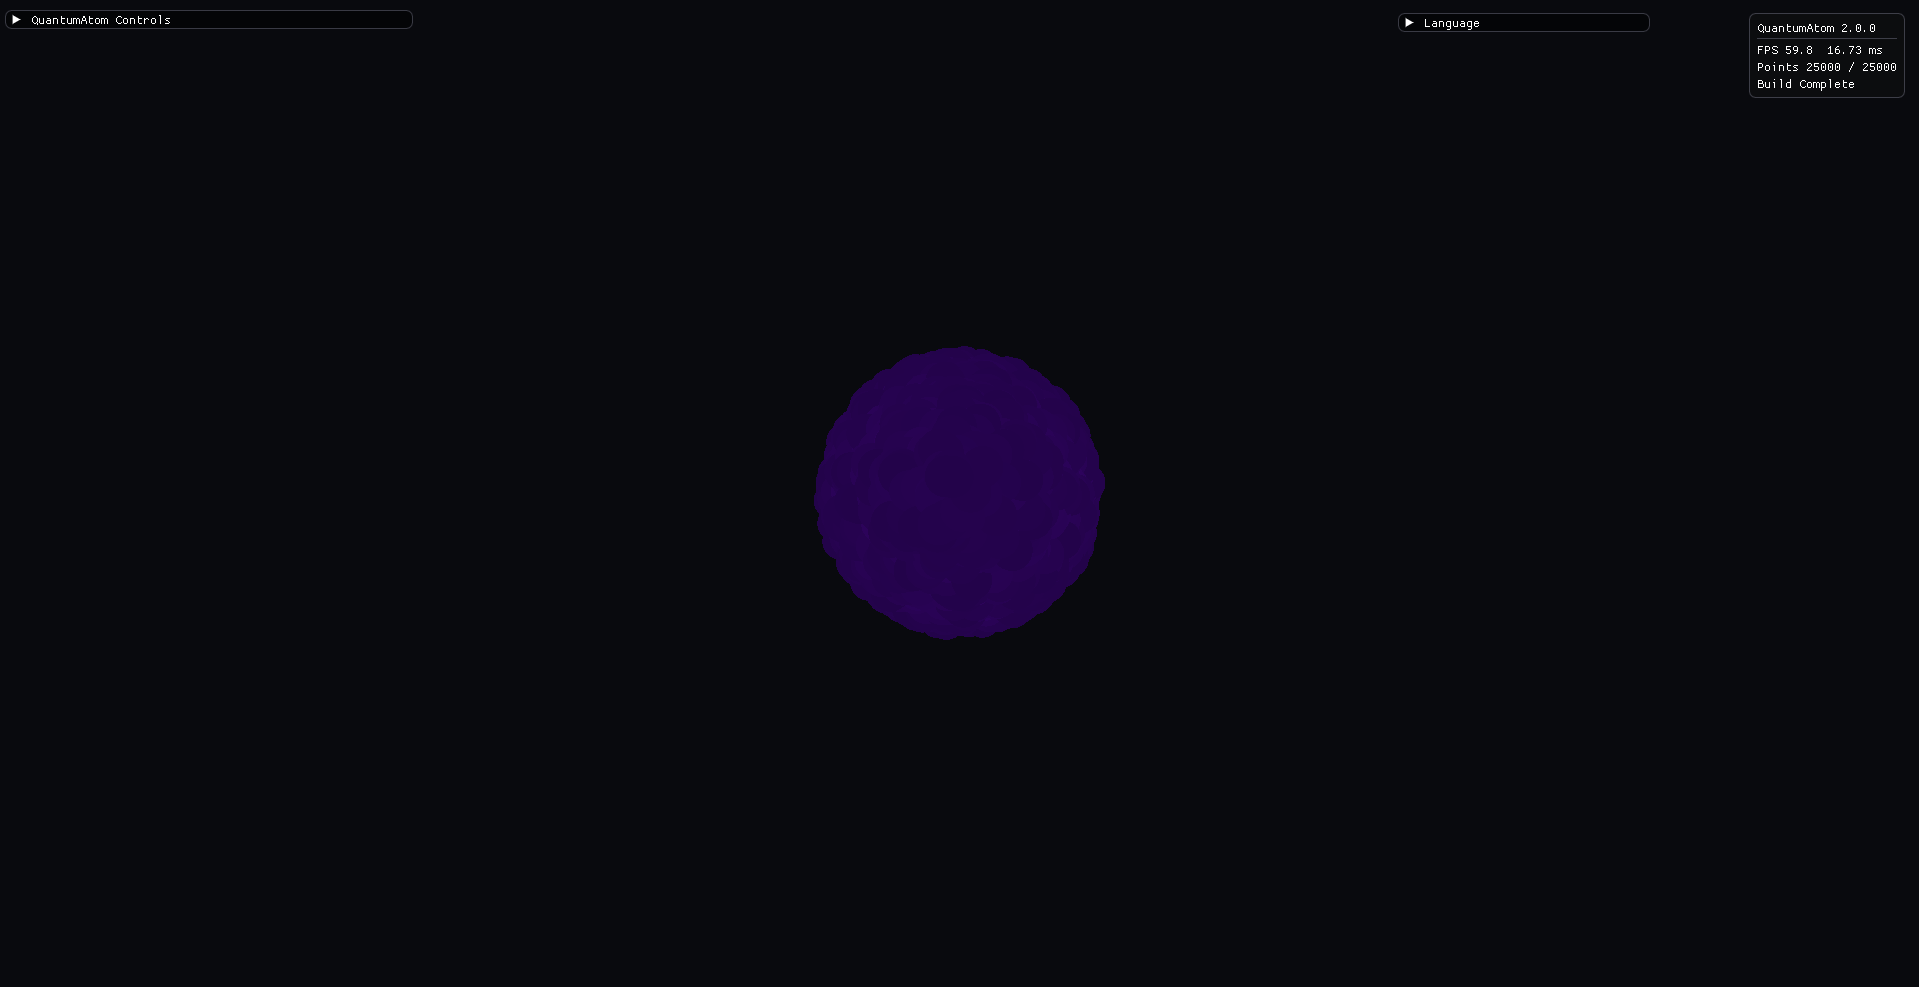
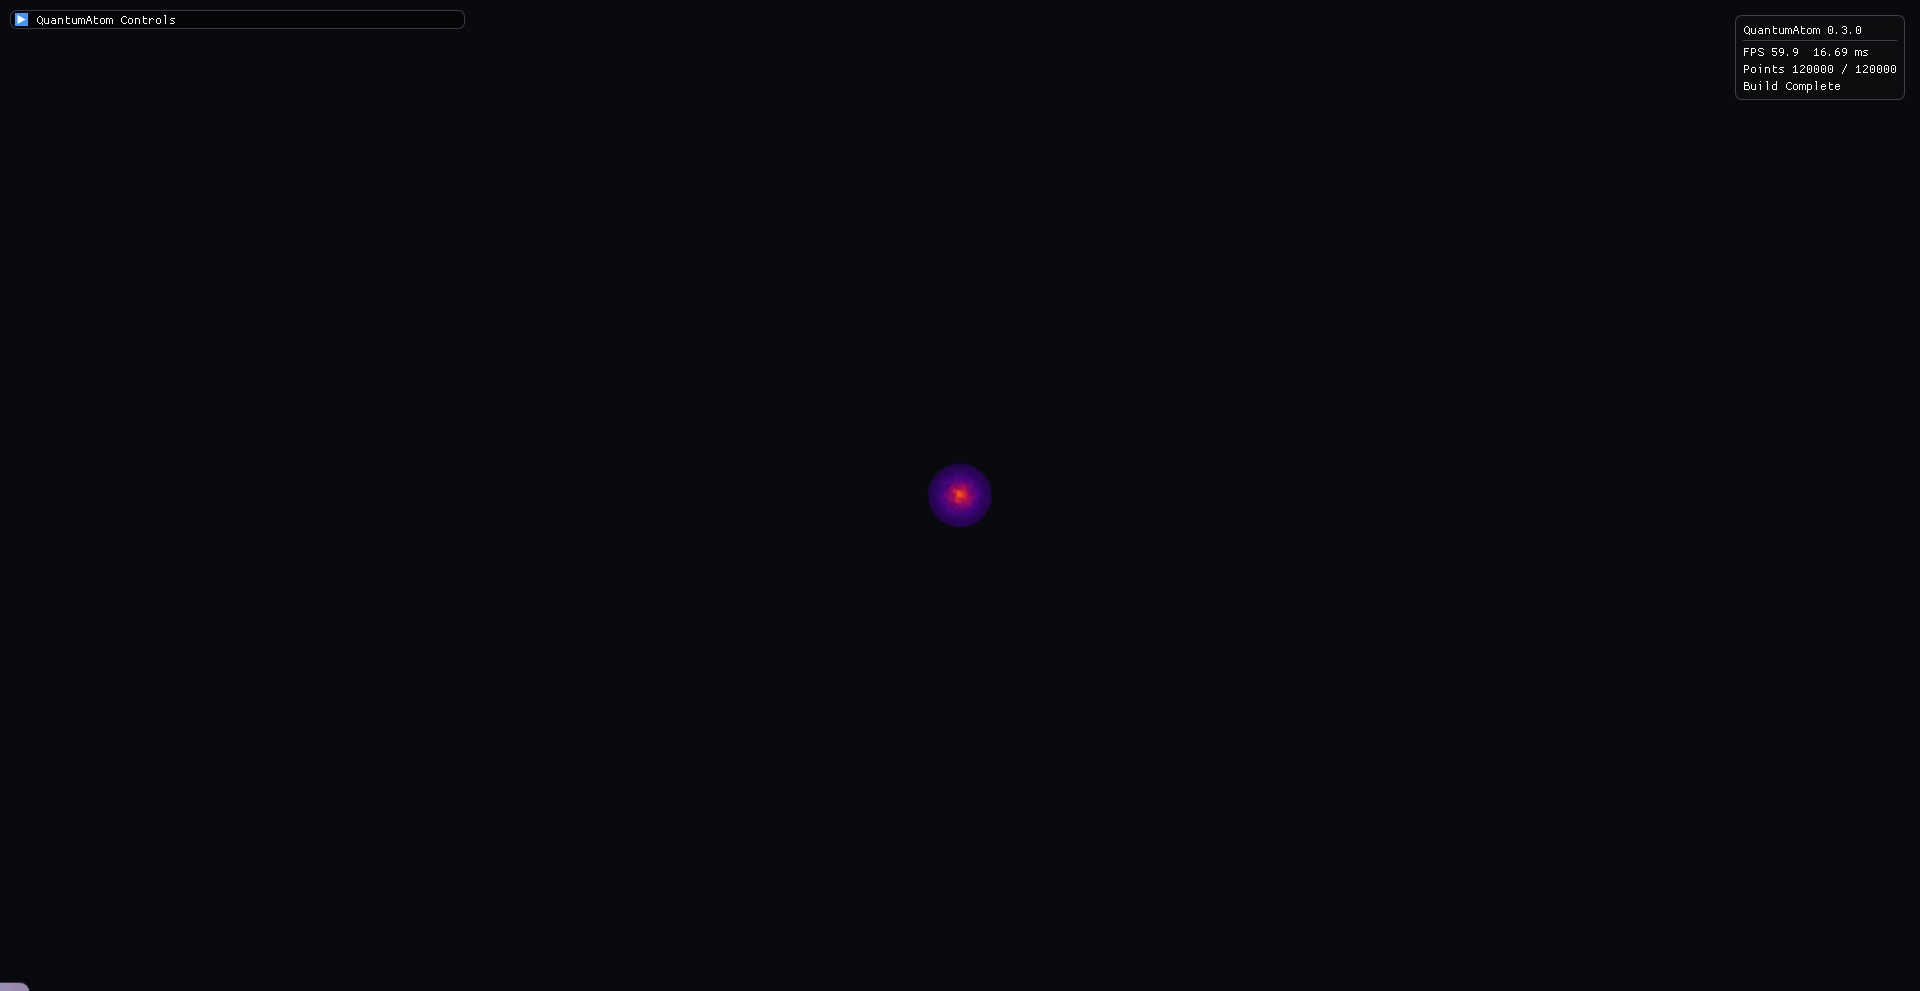
Group source files into core, graphics, and physics folders

diff --git a/README.md b/README.md
@@ -7,7 +7,7 @@ Real-time C++23 and OpenGL visualizer for hydrogen-like atomic orbitals.
 QuantumAtom renders analytical hydrogen-like wavefunctions as interactive 3D probability clouds. It is built for fast educational exploration: choose quantum numbers, watch the cloud regenerate in the background, switch rendering modes, clip into the orbital, and export screenshots.
 
 <p align="center">
-  <img src="docs/media/quantumatom-8k-density.png" alt="QuantumAtom n=8 halo rendering shown in a maximized desktop window" width="900">
+  <img src="docs/media/quantumatom-8k-halo.png" alt="QuantumAtom n=8 halo rendering shown in a maximized desktop window" width="900">
 </p>
 
 ## Features
